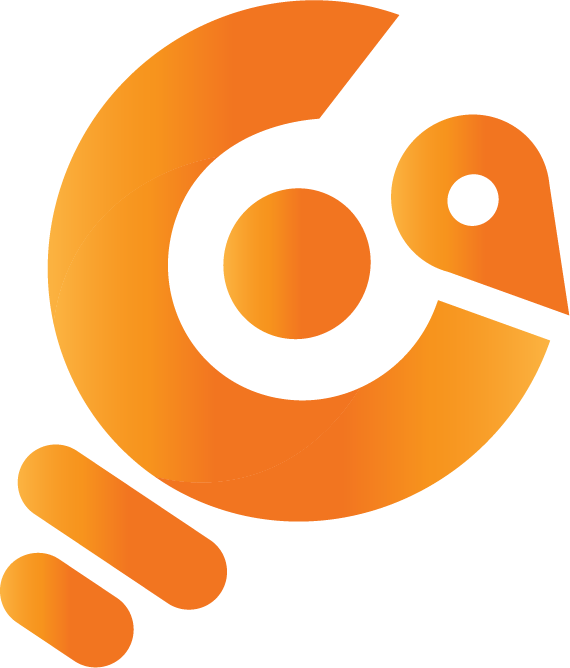
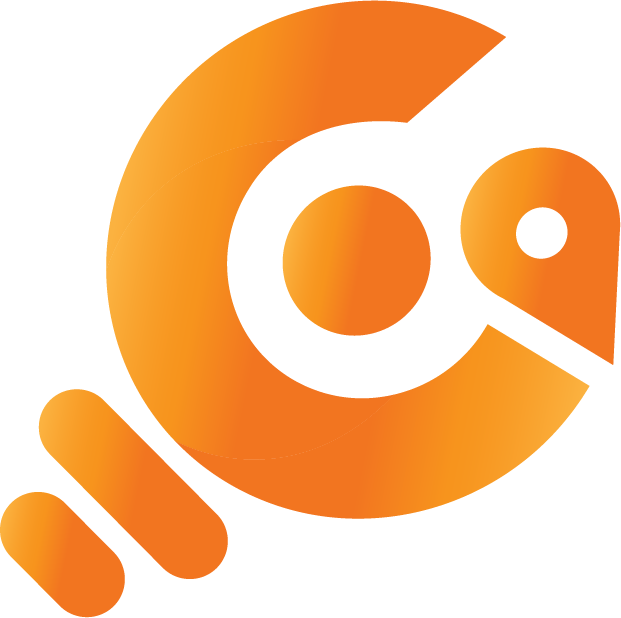
fix: homescreen, navbar, and optimization

diff --git a/lib/components/horizontal_food_list.dart b/lib/components/horizontal_food_list.dart
@@ -1,0 +1,118 @@
+import 'package:flutter/material.dart';
+
+class HorizontalFoodList extends StatelessWidget {
+  final List<FoodCardData> foodItems;
+
+  const HorizontalFoodList({
+    super.key,
+    required this.foodItems,
+  });
+
+  @override
+  Widget build(BuildContext context) {
+    return SizedBox(
+      height: 120,
+      child: ListView.builder(
+        scrollDirection: Axis.horizontal,
+        padding: const EdgeInsets.symmetric(horizontal: 20),
+        itemCount: foodItems.length,
+        itemBuilder: (context, index) {
+          final item = foodItems[index];
+          return Padding(
+            padding: EdgeInsets.only(
+              right: index < foodItems.length - 1 ? 15 : 0,
+            ),
+            child: FoodCard(
+              imagePath: item.imagePath,
+              title: item.title,
+              onTap: item.onTap,
+            ),
+          );
+        },
+      ),
+    );
+  }
+}
+
+class FoodCard extends StatelessWidget {
+  final String imagePath;
+  final String? title;
+  final VoidCallback? onTap;
+
+  const FoodCard({
+    super.key,
+    required this.imagePath,
+    this.title,
+    this.onTap,
+  });
+
+  @override
+  Widget build(BuildContext context) {
+    return GestureDetector(
+      onTap: onTap,
+      child: Container(
+        width: 100,
+        decoration: BoxDecoration(
+          color: Colors.white,
+          borderRadius: BorderRadius.circular(10),
+          boxShadow: [
+            BoxShadow(
+              color: const Color.fromARGB(255, 198, 198, 198).withOpacity(0.15),
+              spreadRadius: 1,
+              blurRadius: 6,
+              offset: Offset(0, 3),
+            ),
+          ],
+        ),
+        child: ClipRRect(
+          borderRadius: BorderRadius.circular(10),
+          child: Column(
+            children: [
+              // Image
+              Expanded(
+                child: Image(
+                  image: AssetImage(imagePath),
+                  width: 100,
+                  fit: BoxFit.cover,
+                  alignment: Alignment.center,
+                ),
+              ),
+              // Optional title at bottom
+              if (title != null)
+                Container(
+                  width: double.infinity,
+                  padding: const EdgeInsets.symmetric(vertical: 8, horizontal: 8),
+                  color: Colors.white,
+                  child: Text(
+                    title!,
+                    textAlign: TextAlign.center,
+                    maxLines: 1,
+                    overflow: TextOverflow.ellipsis,
+                    style: TextStyle(
+                      fontFamily: 'Poppins',
+                      fontSize: 10,
+                      fontWeight: FontWeight.w600,
+                      color: Color(0xFF333333),
+                    ),
+                  ),
+                ),
+            ],
+          ),
+        ),
+      ),
+    );
+  }
+}
+
+// Data model for food card
+class FoodCardData {
+  final String imagePath;
+  final String? title;
+  final VoidCallback? onTap;
+
+  FoodCardData({
+    required this.imagePath,
+    this.title,
+    this.onTap,
+  });
+}

diff --git a/lib/pages/homescreen.dart b/lib/pages/homescreen.dart
@@ -1,6 +1,6 @@
 import 'package:flutter/material.dart';
 import 'package:gastro_nameet/components/profile_button.dart';
-
+import 'package:gastro_nameet/components/horizontal_food_list.dart';
 class Home extends StatefulWidget {
   const Home({super.key});
 
@@ -15,7 +15,7 @@ class _HomeState extends State<Home> {
   Widget build(BuildContext context) {
     return Scaffold(
       appBar: AppBar(
-        toolbarHeight: 70,
+        toolbarHeight: 55,
         automaticallyImplyLeading: false,
         shape: const RoundedRectangleBorder(
           borderRadius: BorderRadius.only(
@@ -24,7 +24,7 @@ class _HomeState extends State<Home> {
           ),
         ),
         backgroundColor: Color(0xFFFFA726),
-        title: Image(image: AssetImage('assets/images/gastro_title.png'), height: 30),
+        title: Image(image: AssetImage('assets/images/gastro_icon2.png'), height: 35),
         actions: [
           Padding(
             padding: const EdgeInsets.only(right: 16),
@@ -351,6 +351,48 @@ class _HomeState extends State<Home> {
                   ),
                 ),
               ),
+              SizedBox(height: 10),
+              HorizontalFoodList(
+                foodItems: [
+                  FoodCardData(
+                    imagePath: 'assets/images/Lapaz-Batchoy-Header.jpg',
+                    title: 'Batchoy',
+                    onTap: () {
+                      print('Batchoy tapped');
+                      // Navigate to detail page
+                    },
+                  ),
+                  FoodCardData(
+                    imagePath: 'assets/images/kbl.jpg',
+                    title: 'KBL',
+                    onTap: () {
+                      print('KBL tapped');
+                    },
+                  ),
+                  FoodCardData(
+                    imagePath: 'assets/images/pnctmolo.jpg',
+                    title: 'Pancit Molo',
+                    onTap: () {
+                      print('Pancit Molo tapped');
+                    },
+                  ),
+                  FoodCardData(
+                    imagePath: 'assets/images/inasal.jpg',
+                    title: 'Inasal',
+                    onTap: () {
+                      print('Inasal tapped');
+                    },
+                  ),
+                  FoodCardData(
+                    imagePath: 'assets/images/biscocho.jpg',
+                    title: 'Biscocho',
+                    onTap: () {
+                      print('Biscocho tapped');
+                    },
+                  ),
+                ],
+              ),
+              SizedBox(height: 20),
             ],
           ),
         ),

diff --git a/lib/components/bottom_nav_bar.dart b/lib/components/bottom_nav_bar.dart
@@ -24,10 +24,12 @@ class BottomNavBar extends StatelessWidget {
         selectedFontSize: 13,
         unselectedFontSize: 13,
         selectedLabelStyle: TextStyle(
+          fontFamily: 'Poppins',
           fontWeight: FontWeight.bold,
           color: Color.fromARGB(0,0,0,0),
         ),
         unselectedLabelStyle: TextStyle(
+          fontFamily: 'Poppins',
           fontWeight: FontWeight.bold,
           color: Color.fromARGB(0,0,0,0),
         ),
@@ -56,6 +58,7 @@ class BottomNavBar extends StatelessWidget {
               opticalSize: 48,
             ),
             label: 'Food',
+
           ),
           BottomNavigationBarItem(
             icon: Icon(
@@ -66,6 +69,7 @@ class BottomNavBar extends StatelessWidget {
               opticalSize: 48,
             ),
             label: 'Save',
+
           ),
           BottomNavigationBarItem(
             icon: Icon(
@@ -76,6 +80,7 @@ class BottomNavBar extends StatelessWidget {
                 opticalSize: 48,
             ),
             label: 'Events',
+            
           ),
         ],
       ),

diff --git a/lib/pages/save.dart b/lib/pages/save.dart
@@ -14,6 +14,12 @@ class _SaveState extends State<Save> {
     return Scaffold(
       appBar: AppBar(
         automaticallyImplyLeading: false,
+          shape: const RoundedRectangleBorder(
+          borderRadius: BorderRadius.only(
+            bottomLeft: Radius.circular(20),
+            bottomRight: Radius.circular(20),
+          ),
+          ),
         backgroundColor: Color(0xFFFFA726),
         title: Row(children: [
           Icon(Icons.bookmark_rounded, color: Color.fromARGB(255, 255, 255, 255)),
